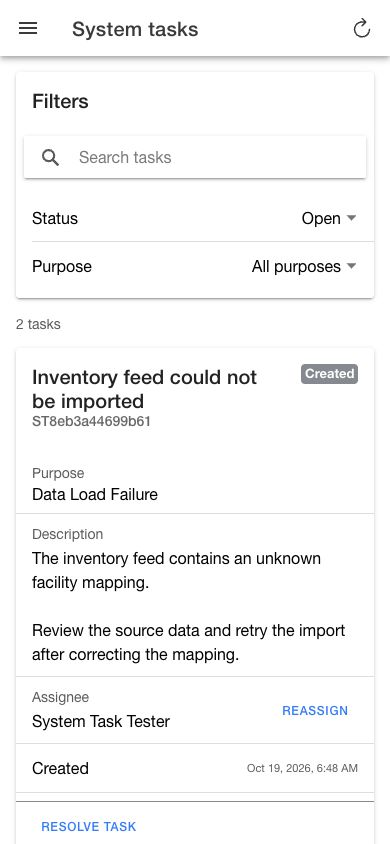
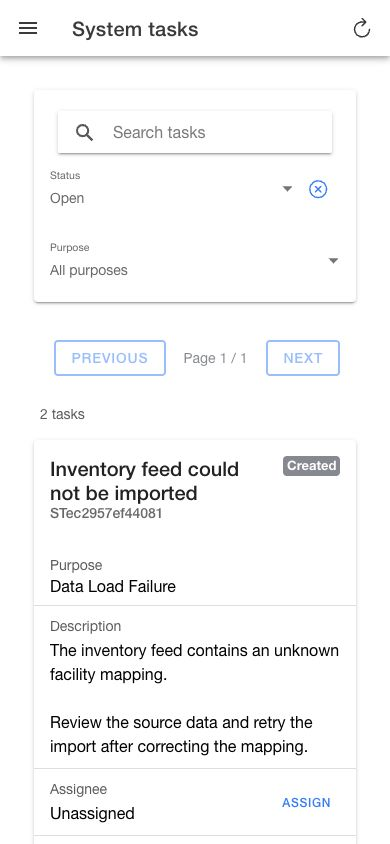
Use the standard Job Manager search layout for System Tasks

diff --git a/src/views/SystemTasks.vue b/src/views/SystemTasks.vue
@@ -12,51 +12,58 @@
       </ion-toolbar>
     </ion-header>
     <ion-content>
-      <main class="system-tasks-layout">
-        <aside>
-          <ion-card class="filters">
-            <ion-card-header><ion-card-title>{{ translate('Filters') }}</ion-card-title></ion-card-header>
+      <main>
+        <ion-card>
+          <ion-card-content>
             <ion-searchbar :value="query.search" :debounce="350" :placeholder="translate('Search tasks')" @ionInput="searchTasks($event.detail.value || '')" />
-            <ion-list>
-              <ion-item>
-                <ion-select v-model="query.status" :label="translate('Status')" interface="popover" @ionChange="resetPage">
+            <div class="filter-grid">
+              <div class="filter-item">
+                <ion-select v-model="query.status" :label="translate('Status')" label-placement="stacked" interface="popover" @ionChange="resetPage">
                   <ion-select-option value="open">{{ translate('Open') }}</ion-select-option>
                   <ion-select-option value="resolved">{{ translate('Resolved') }}</ion-select-option>
                   <ion-select-option value="all">{{ translate('All') }}</ion-select-option>
                 </ion-select>
-              </ion-item>
-              <ion-item lines="none">
-                <ion-select v-model="query.purposeId" :label="translate('Purpose')" interface="popover" @ionChange="resetPage">
+                <ion-button v-if="query.status !== 'all'" fill="clear" class="clear-filter-btn" :aria-label="translate('Clear')" :title="translate('Clear')" @click="query.status = 'all'; resetPage()">
+                  <ion-icon slot="icon-only" :icon="closeCircleOutline" />
+                </ion-button>
+              </div>
+              <div class="filter-item">
+                <ion-select v-model="query.purposeId" :label="translate('Purpose')" label-placement="stacked" interface="popover" @ionChange="resetPage">
                   <ion-select-option value="">{{ translate('All purposes') }}</ion-select-option>
                   <ion-select-option v-for="purpose in purposes" :key="purpose.enumId" :value="purpose.enumId">{{ purpose.description }}</ion-select-option>
                 </ion-select>
-              </ion-item>
-            </ion-list>
-          </ion-card>
-        </aside>
-        <section class="task-queue" :aria-label="translate('System tasks')" :aria-busy="loading">
-          <div v-if="loading" class="queue-state" role="status"><ion-spinner /><p>{{ translate('Loading tasks…') }}</p></div>
-          <div v-else-if="loadError" class="queue-state" role="alert">
+                <ion-button v-if="query.purposeId" fill="clear" class="clear-filter-btn" :aria-label="translate('Clear')" :title="translate('Clear')" @click="query.purposeId = ''; resetPage()">
+                  <ion-icon slot="icon-only" :icon="closeCircleOutline" />
+                </ion-button>
+              </div>
+            </div>
+          </ion-card-content>
+        </ion-card>
+
+        <nav v-if="!loadError" class="pagination" :aria-label="translate('Task pages')">
+          <ion-button fill="outline" :disabled="loading || query.pageIndex === 0" @click="changePage(-1)">{{ translate('Previous') }}</ion-button>
+          <ion-note color="medium">{{ translate('Page') }} {{ query.pageIndex + 1 }} / {{ Math.max(1, Math.ceil(total / query.pageSize)) }}</ion-note>
+          <ion-button fill="outline" :disabled="loading || (query.pageIndex + 1) * query.pageSize >= total" @click="changePage(1)">{{ translate('Next') }}</ion-button>
+        </nav>
+
+        <section :aria-label="translate('System tasks')" :aria-busy="loading">
+          <div v-if="loading" class="loading-state" role="status"><ion-spinner /><p>{{ translate('Loading tasks…') }}</p></div>
+          <div v-else-if="loadError" class="loading-state" role="alert">
             <p>{{ translate('Unable to load system tasks. Please try again.') }}</p>
             <ion-button fill="outline" @click="loadTasks">{{ translate('Retry') }}</ion-button>
           </div>
           <template v-else>
-            <div class="queue-header"><ion-note>{{ total }} {{ translate(total === 1 ? 'task' : 'tasks') }}</ion-note></div>
-            <div v-if="!tasks.length" class="queue-state">
+            <div class="ion-margin-horizontal"><ion-note>{{ total }} {{ translate(total === 1 ? 'task' : 'tasks') }}</ion-note></div>
+            <div v-if="!tasks.length" class="empty-state">
               <ion-icon :icon="checkmarkCircleOutline" />
               <h2>{{ translate('No system tasks found') }}</h2>
               <p>{{ translate('Tasks matching your filters will appear here.') }}</p>
             </div>
-            <div class="task-cards">
+            <ion-list v-else>
               <SystemTaskCard v-for="task in tasks" :key="task.workEffortId" :task="task" :busy="busyIds.has(task.workEffortId)"
                 @assign="openAssignment(task)" @resolve="confirmResolve(task)" />
-            </div>
+            </ion-list>
           </template>
-          <nav v-if="!loadError && total > query.pageSize" class="pagination" :aria-label="translate('Task pages')">
-            <ion-button fill="outline" :disabled="loading || query.pageIndex === 0" @click="changePage(-1)">{{ translate('Previous') }}</ion-button>
-            <ion-note>{{ translate('Page') }} {{ query.pageIndex + 1 }} / {{ Math.ceil(total / query.pageSize) }}</ion-note>
-            <ion-button fill="outline" :disabled="loading || (query.pageIndex + 1) * query.pageSize >= total" @click="changePage(1)">{{ translate('Next') }}</ion-button>
-          </nav>
         </section>
       </main>
     </ion-content>
@@ -79,7 +86,7 @@
             </ion-item>
           </ion-list>
         </ion-radio-group>
-        <div v-if="usersLoading" class="queue-state" role="status"><ion-spinner /></div>
+        <div v-if="usersLoading" class="loading-state" role="status"><ion-spinner /></div>
         <div v-else-if="usersError" class="ion-padding" role="alert">
           <p>{{ translate('Unable to load people. Please try again.') }}</p>
           <ion-button fill="clear" @click="loadAssignees(false)">{{ translate('Retry') }}</ion-button>
@@ -99,8 +106,8 @@
 
 <script setup lang="ts">
 import { computed, reactive, ref, watch } from 'vue';
-import { IonButton, IonButtons, IonCard, IonCardHeader, IonCardTitle, IonContent, IonFooter, IonHeader, IonIcon, IonItem, IonList, IonMenuButton, IonModal, IonNote, IonPage, IonRadio, IonRadioGroup, IonSearchbar, IonSelect, IonSelectOption, IonSpinner, IonTitle, IonToolbar, alertController, onIonViewWillEnter } from '@ionic/vue';
-import { checkmarkCircleOutline, refreshOutline } from 'ionicons/icons';
+import { IonButton, IonButtons, IonCard, IonCardContent, IonContent, IonFooter, IonHeader, IonIcon, IonItem, IonList, IonMenuButton, IonModal, IonNote, IonPage, IonRadio, IonRadioGroup, IonSearchbar, IonSelect, IonSelectOption, IonSpinner, IonTitle, IonToolbar, alertController, onIonViewWillEnter } from '@ionic/vue';
+import { checkmarkCircleOutline, closeCircleOutline, refreshOutline } from 'ionicons/icons';
 import { translate } from '@common';
 import { showToast } from '@/utils';
 import SystemTaskCard from '@/components/SystemTaskCard.vue';
@@ -242,16 +249,18 @@ async function saveAssignment() {
 </script>
 
 <style scoped>
-.system-tasks-layout { display: grid; grid-template-columns: 280px minmax(0, 760px); gap: 24px; max-width: 1100px; padding: 24px; margin: 0 auto; }
-.filters { margin: 0; }
-.task-queue { min-width: 0; }
-.queue-header { margin-block-end: 16px; }
-.task-cards { display: grid; gap: 24px; }
-.queue-state { text-align: center; padding: 40px 16px; color: var(--ion-color-medium); }
-.queue-state > ion-icon { font-size: 40px; }
-.queue-state h2 { color: var(--ion-text-color); font-size: 20px; }
-.pagination { display: flex; align-items: center; justify-content: space-between; gap: 8px; margin-block-start: 24px; }
-@media (max-width: 767px) {
-  .system-tasks-layout { grid-template-columns: minmax(0, 1fr); padding: 16px; gap: 16px; }
+.pagination {
+  display: flex;
+  justify-content: flex-end;
+  align-items: center;
+  gap: var(--spacer-sm);
+  flex-wrap: wrap;
+  padding: var(--spacer-base);
+}
+
+.loading-state,
+.empty-state {
+  text-align: center;
+  padding: var(--spacer-lg);
 }
 </style>

diff --git a/src/components/SystemTaskCard.vue b/src/components/SystemTaskCard.vue
@@ -68,7 +68,6 @@ const formatDate = (value: number | string) => {
 </script>
 
 <style scoped>
-.system-task-card { margin: 0; }
 .task-header { display: flex; align-items: flex-start; gap: var(--spacer-sm, 12px); }
 .task-header > div { flex: 1; min-width: 0; }
 ion-card-title { overflow-wrap: anywhere; }
